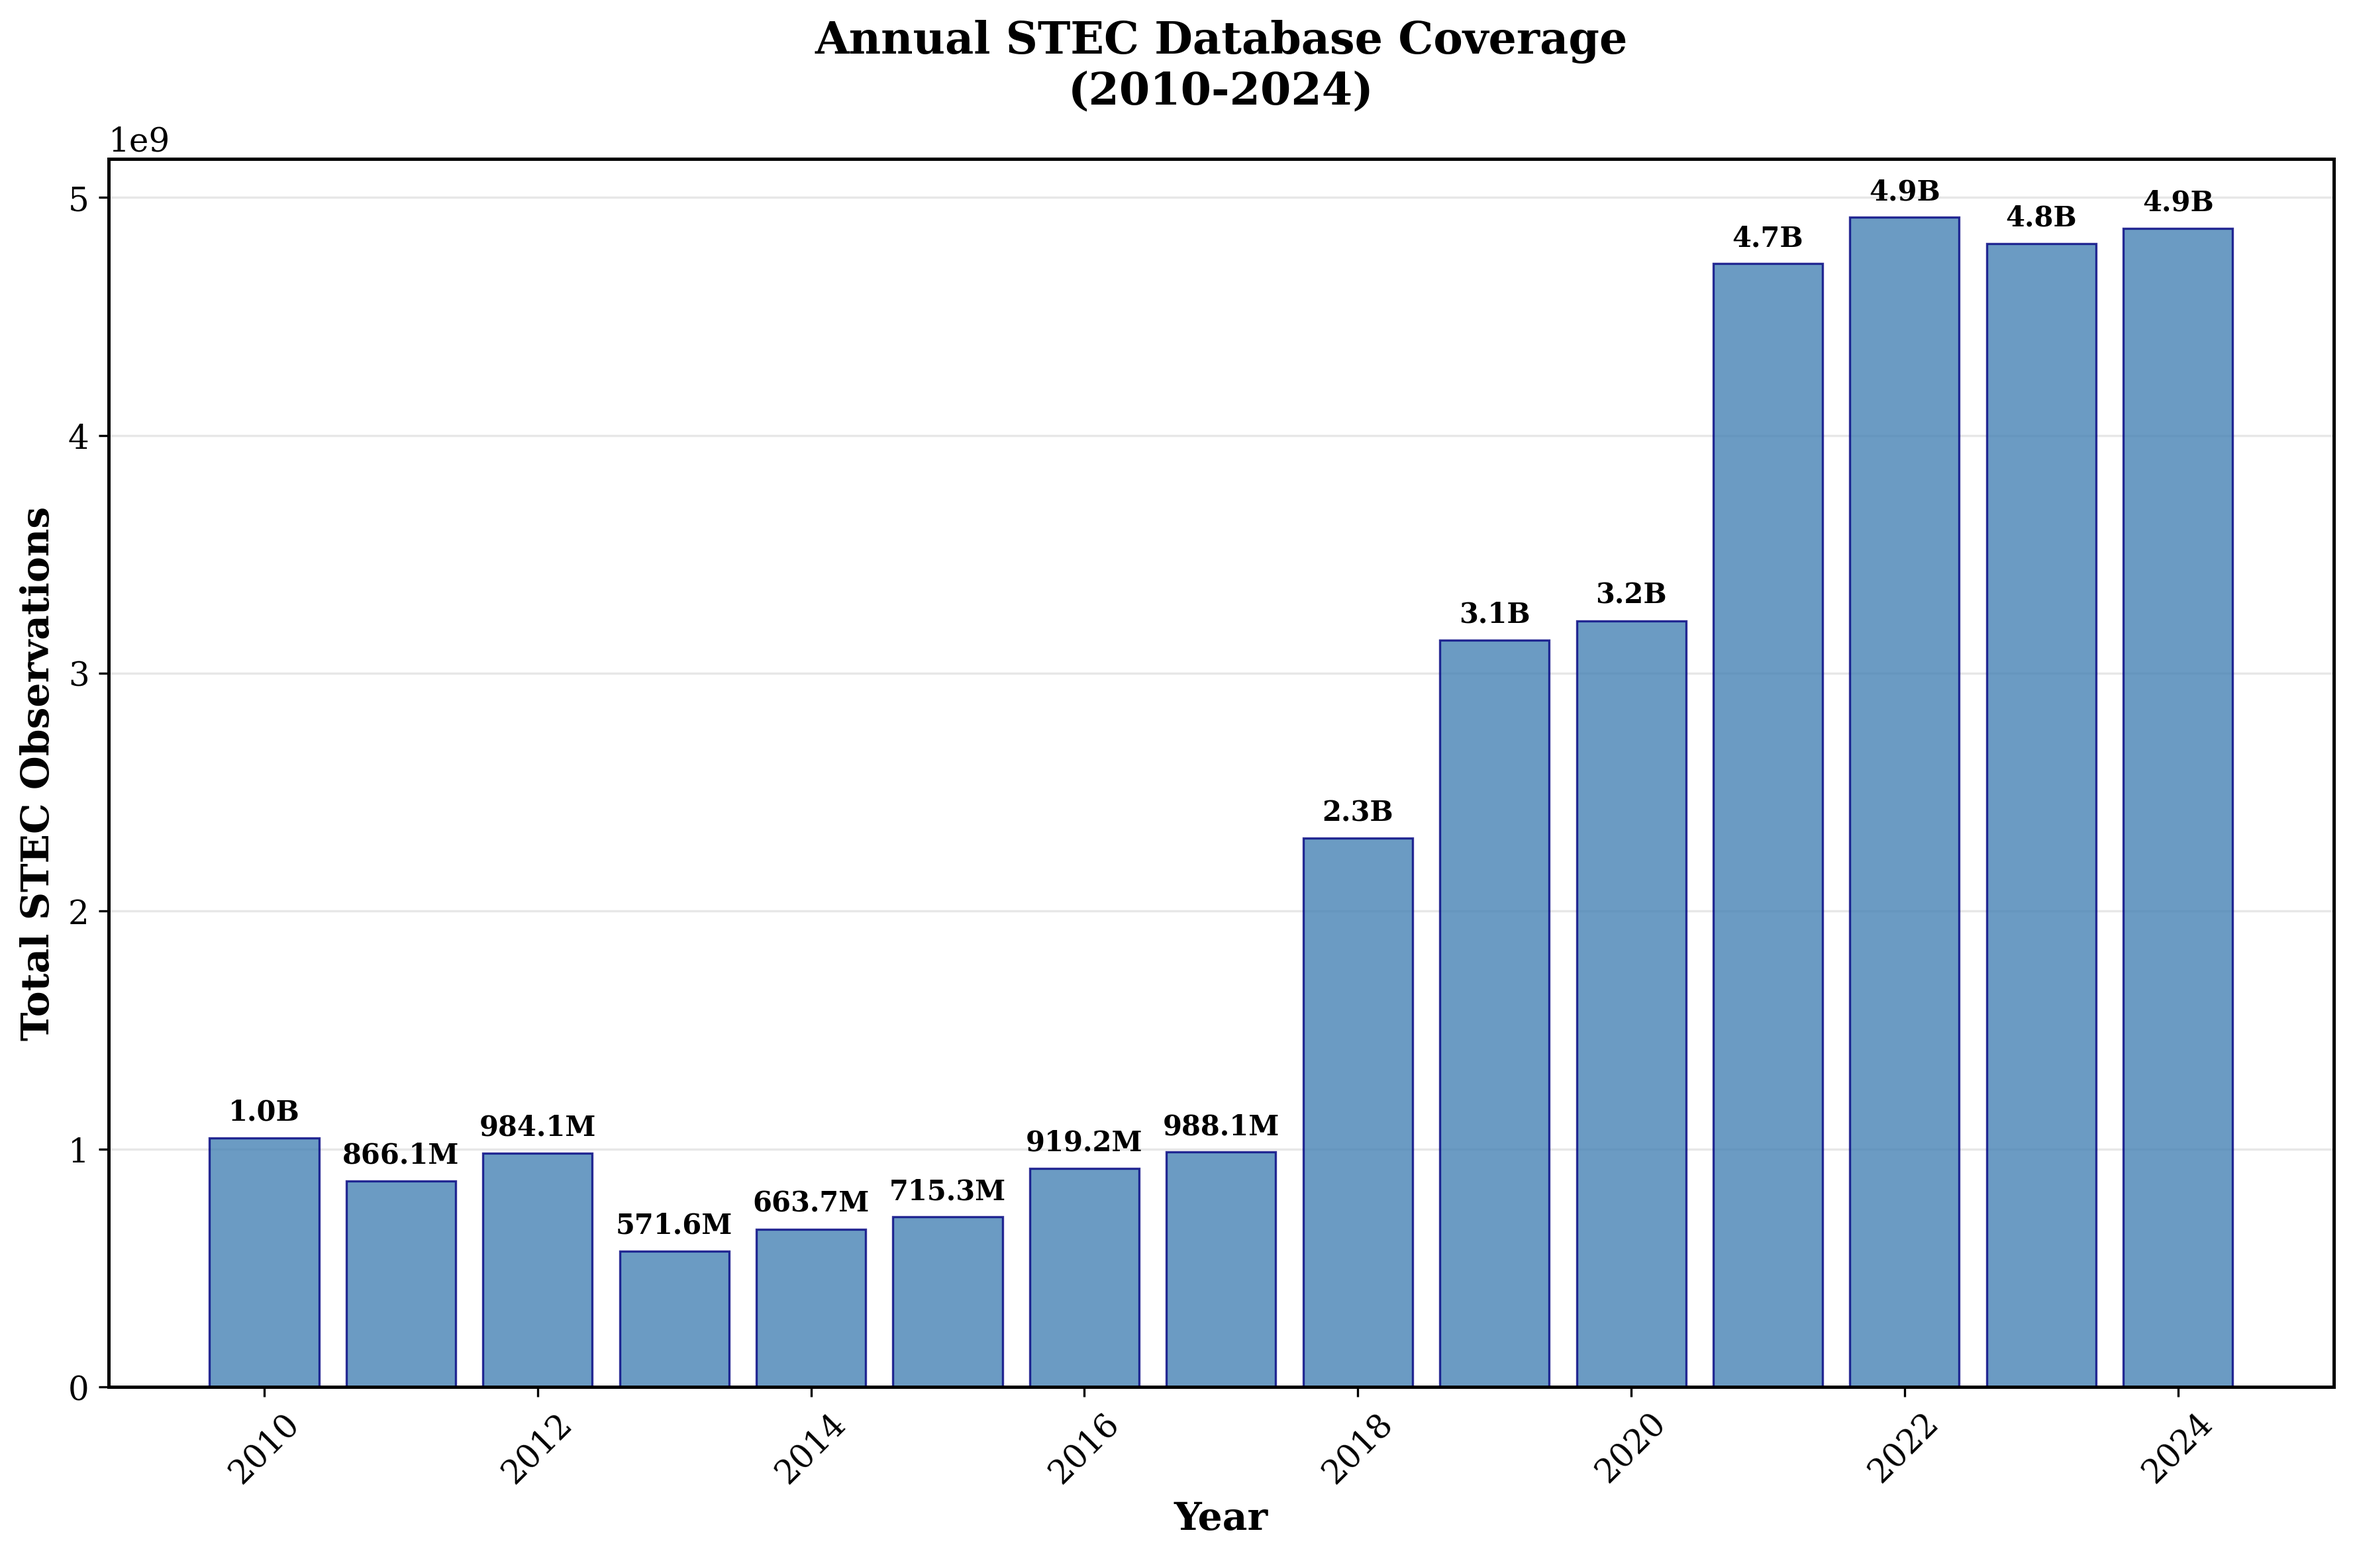
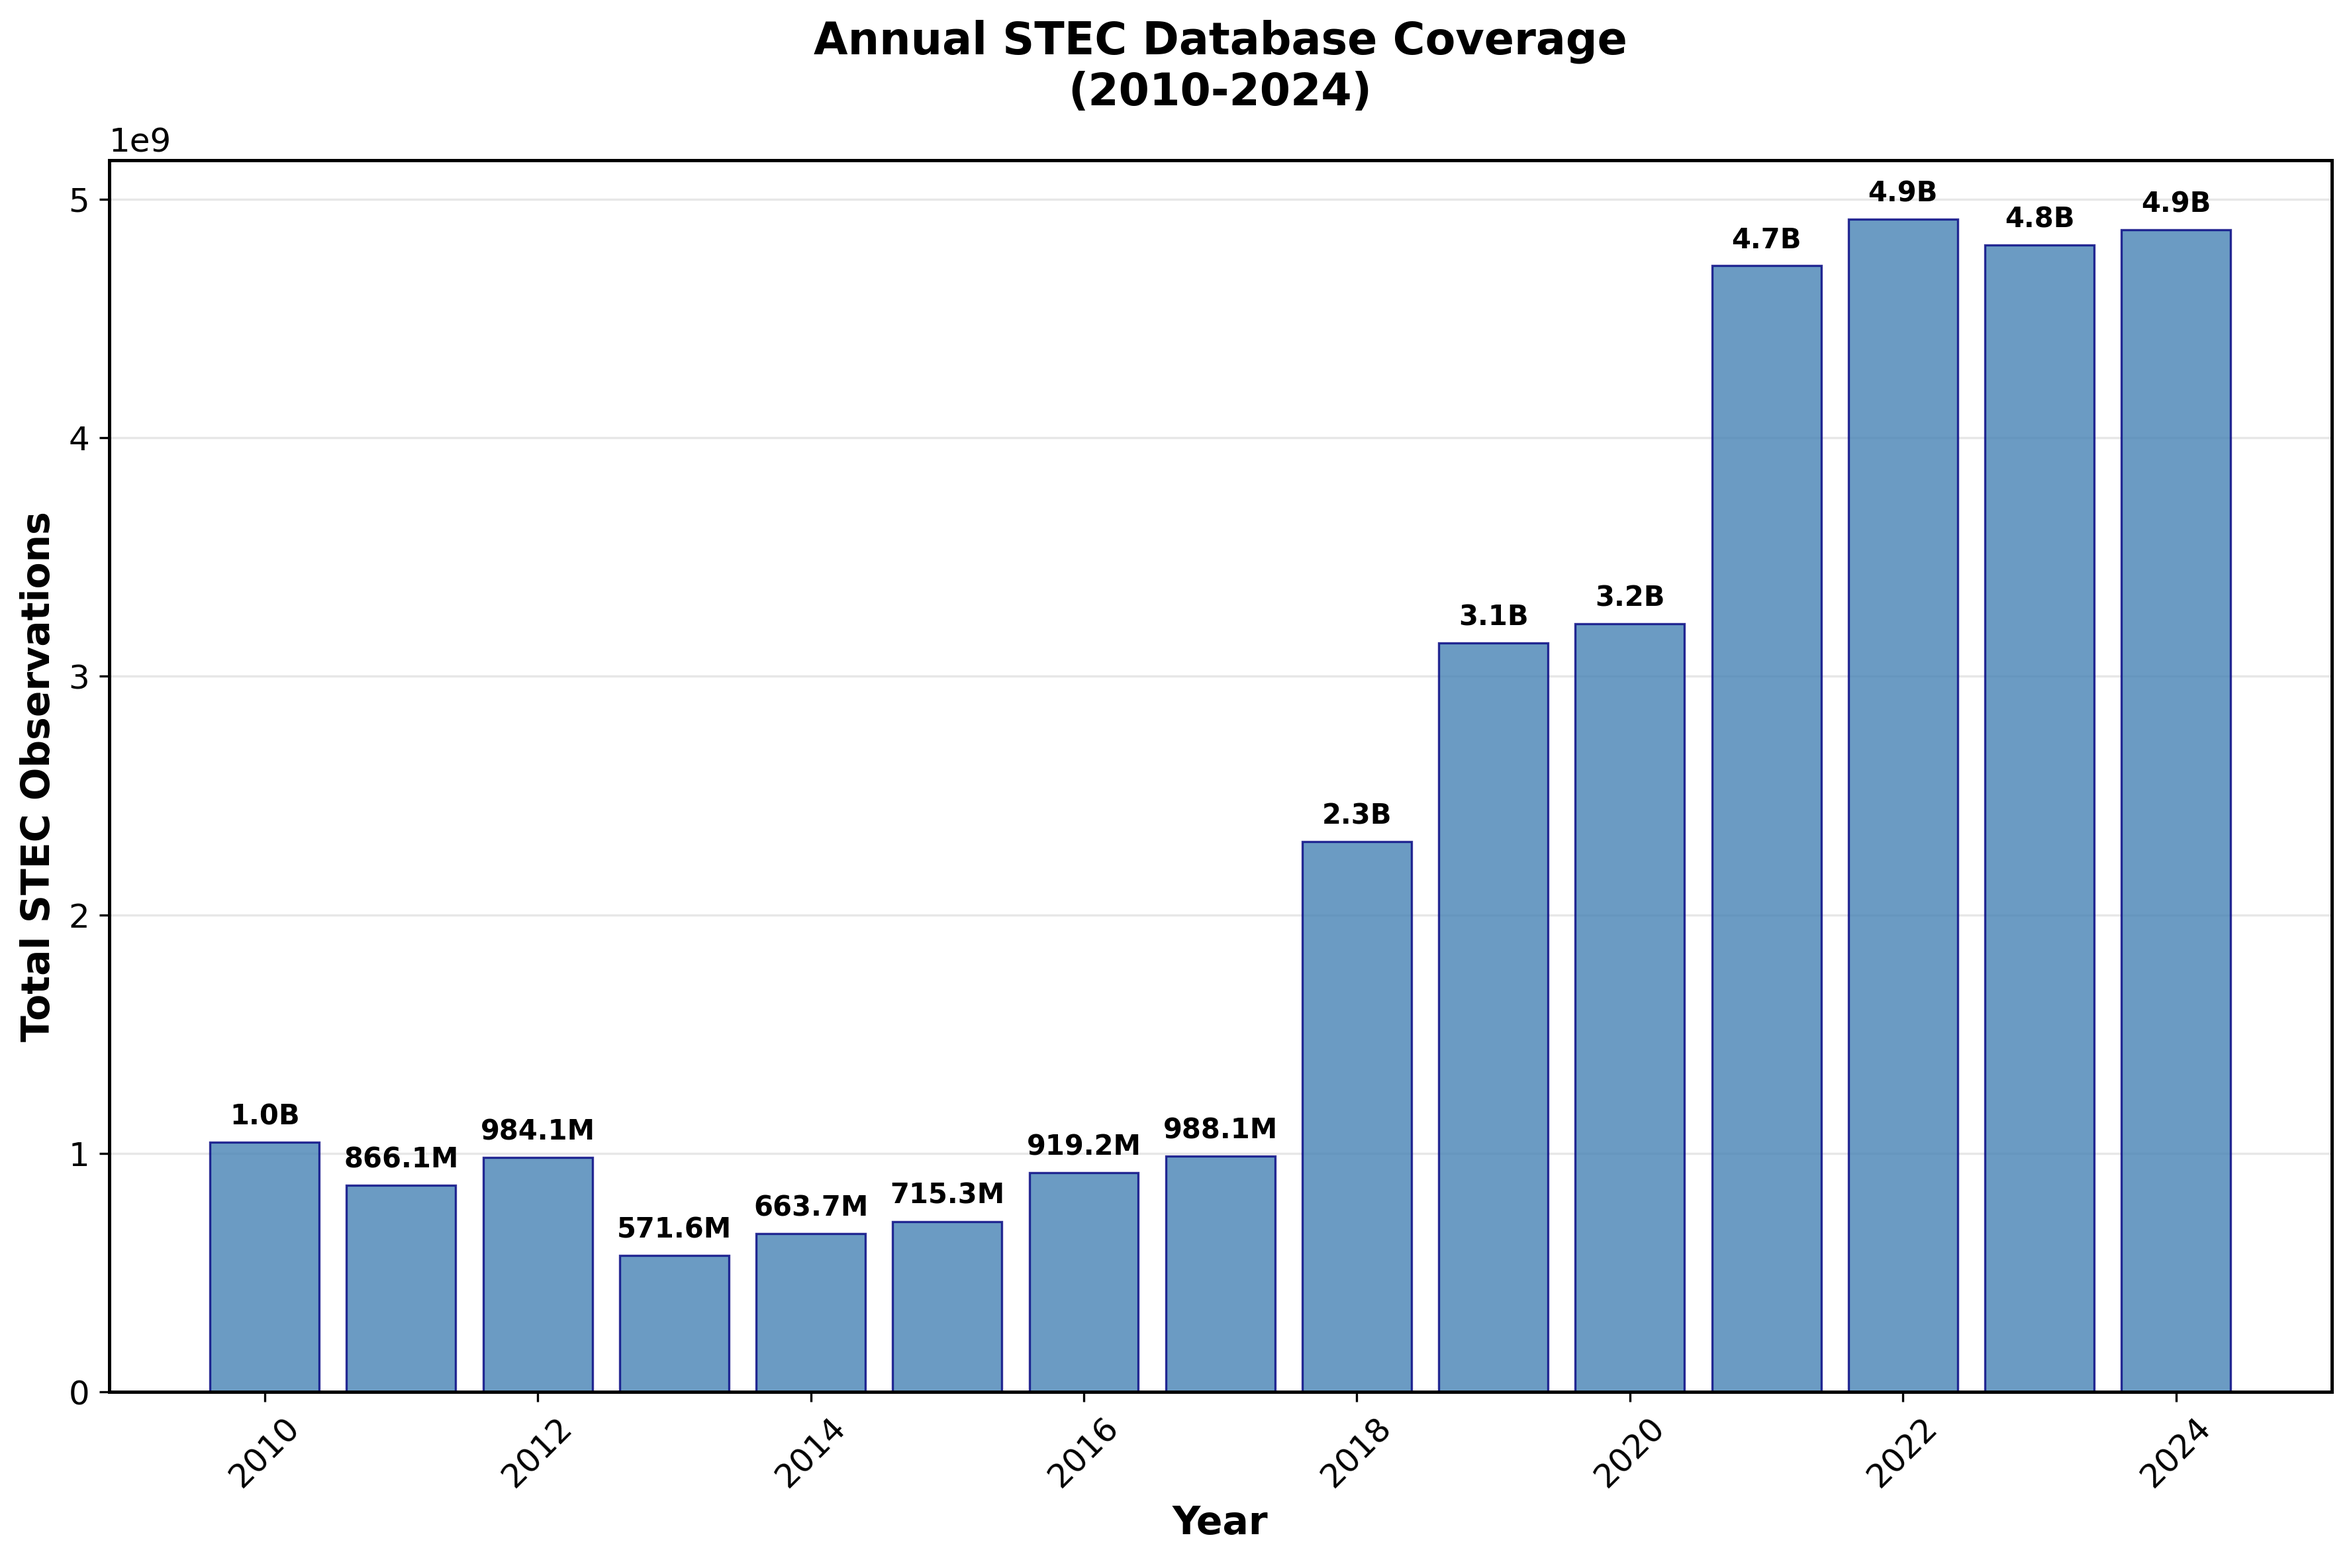
finalized data and split plots

diff --git a/src/data_processing/split_new.py b/src/data_processing/split_new.py
@@ -10,13 +10,12 @@ from itertools import chain
 # Set global matplotlib parameters for scientific plots
 plt.rcParams.update({
     'font.size': 12,
-    'font.family': 'serif',
     'axes.labelsize': 14,
-    'axes.titlesize': 16,
-    'xtick.labelsize': 12,
-    'ytick.labelsize': 12,
-    'legend.fontsize': 12,
-    'figure.titlesize': 18,
+    'axes.titlesize': 18,
+    'xtick.labelsize': 15,
+    'ytick.labelsize': 15,
+    'legend.fontsize': 15,
+    'figure.titlesize': 20,
     'axes.linewidth': 1.2,
     'grid.alpha': 0.3
 })
@@ -146,13 +145,13 @@ def plot_station_distribution(train_stations, val_stations, test_stations, outpu
     
     # Use slightly darker colors for the perfect balance
     train_scatter = ax.scatter(train_lon_j, train_lat_j, 
-                              s=scatter_size, c='#E60000', label='Training',  # Slightly darker red
+                              s=scatter_size, c="#0064d6ef", label='Training',  # Slightly darker red
                               zorder=3, alpha=alpha)
     val_scatter = ax.scatter(val_lon_j, val_lat_j, 
-                            s=scatter_size, c='#228B22', label='Validation',  # Slightly darker green
+                            s=scatter_size, c='#ff7f0e', label='Validation',  # Slightly darker green
                             zorder=4, alpha=alpha)
     test_scatter = ax.scatter(test_lon_j, test_lat_j, 
-                             s=scatter_size, c='#1E4ED8', label='Test',  # Slightly darker blue
+                             s=scatter_size, c='#d62728', label='Test',  # Slightly darker blue
                              zorder=5, alpha=alpha)
     
     # Add simplified title
@@ -174,8 +173,8 @@ def plot_station_distribution(train_stations, val_stations, test_stations, outpu
     
     # Create legend with title showing total
     legend = ax.legend(title=f'Total Stations: {total_stations}', 
-                      loc='lower left', frameon=True, fancybox=True, shadow=True,
-                      framealpha=0.9, edgecolor='black', facecolor='white')
+                      loc='upper center', bbox_to_anchor=(0.5, -0.05), ncol=3,
+                      frameon=True, fancybox=True, shadow=False)
     legend.get_frame().set_linewidth(1.2)
     legend.get_title().set_fontweight('bold')
     legend.get_title().set_fontsize(12)

diff --git a/scripts/plot_dataset_counts.py b/scripts/plot_dataset_counts.py
@@ -11,7 +11,6 @@ import numpy as np
 # Set global matplotlib parameters for scientific plots
 plt.rcParams.update({
     'font.size': 12,
-    'font.family': 'serif',
     'axes.labelsize': 14,
     'axes.titlesize': 16,
     'xtick.labelsize': 12,
@@ -242,7 +241,7 @@ def plot_observations(dates, counts):
         doy = date.timetuple().tm_yday - 1  # 0-based DOY
         heatmap_data[year_to_idx[date.year], doy] = count
 
-    fig, ax = plt.subplots(figsize=(16, 10))
+    fig, ax = plt.subplots(figsize=(12, 8))
     
     # Use a better colormap for scientific data
     cmap = plt.cm.viridis
@@ -258,20 +257,20 @@ def plot_observations(dates, counts):
     # Set axis labels and ticks
     ax.set_xlabel("Day of Year", fontweight='bold')
     ax.set_ylabel("Year", fontweight='bold')
-    ax.set_title("STEC Database Daily Coverage\n(2010-2024)", 
-                fontweight='bold', pad=20)
+    ax.set_title("STEC Dataset Daily Coverage", 
+                fontweight='bold', pad=10)
+    
+    month_starts = [1, 32, 60, 91, 121, 152, 182, 213, 244, 274, 305, 335]
+    month_names = ['Jan', 'Feb', 'Mar', 'Apr', 'May', 'Jun',
+                   'Jul', 'Aug', 'Sep', 'Oct', 'Nov', 'Dec']
     
     # Better tick formatting
-    ax.set_xticks(np.arange(0, 366, 30))  # Every 30 days
-    ax.set_xticklabels(np.arange(1, 367, 30))
+    ax.set_xticks(month_starts)
+    ax.set_xticklabels(month_starts, fontsize=11)
     ax.set_yticks(range(len(years)))
     ax.set_yticklabels(years)
     
     # Add month labels on top
-    month_starts = [0, 31, 59, 90, 120, 151, 181, 212, 243, 273, 304, 334]
-    month_names = ['Jan', 'Feb', 'Mar', 'Apr', 'May', 'Jun',
-                   'Jul', 'Aug', 'Sep', 'Oct', 'Nov', 'Dec']
-    
     ax2 = ax.twiny()
     ax2.set_xlim(ax.get_xlim())
     ax2.set_xticks(month_starts)
